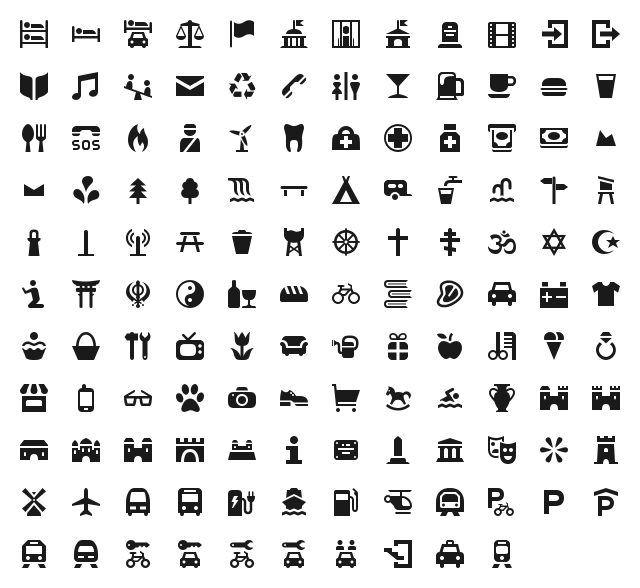
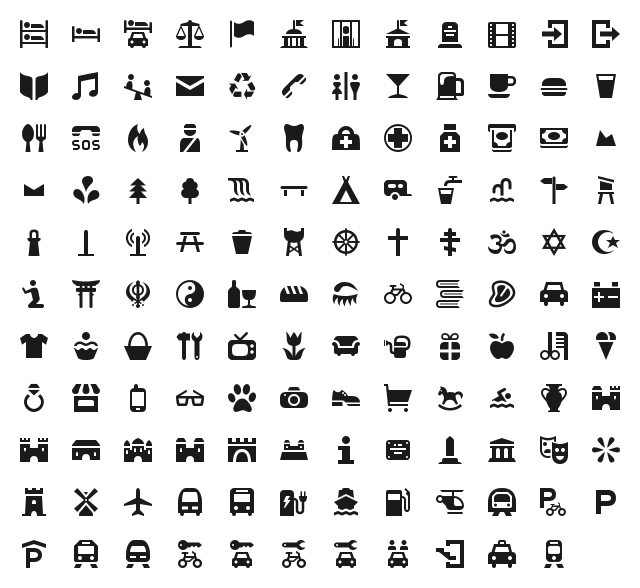
added beauty shop (idea by kocio-pl)

diff --git a/font/osmic-preview.html b/font/osmic-preview.html
@@ -167,6 +167,7 @@
 .oc-bakery:before,
 .oc-bank:before,
 .oc-bar:before,
+.oc-beauty:before,
 .oc-bench:before,
 .oc-bicycle:before,
 .oc-biergarten:before,
@@ -311,6 +312,7 @@
 .oc-bakery:before { content: "\f104"; }
 .oc-bank:before { content: "\f105"; }
 .oc-bar:before { content: "\f106"; }
+.oc-beauty:before { content: "\f183"; }
 .oc-bench:before { content: "\f107"; }
 .oc-bicycle:before { content: "\f108"; }
 .oc-biergarten:before { content: "\f109"; }
@@ -449,7 +451,7 @@
   <body class="characters-off">
     <div id="page" class="container">
       <header>
-        <h1>osmic contains 130 glyphs:</h1>
+        <h1>osmic contains 131 glyphs:</h1>
         <a onclick="toggleCharacters(); return false;" href="#">Toggle Preview Characters</a>
       </header>
 
@@ -542,6 +544,19 @@
         <div class="usage">
           <input class="class" type="text" readonly="readonly" onClick="this.select();" value=".oc-bar" />
           <input class="point" type="text" readonly="readonly" onClick="this.select();" value="&amp;#xf106;" />
+        </div>
+      </div>
+      
+      <div class="glyph">
+        <div class="preview-glyphs">
+          <span class="step size-12"><span class="letters">Pp</span><i id="oc-beauty" class="oc-beauty"></i></span><span class="step size-14"><span class="letters">Pp</span><i id="oc-beauty" class="oc-beauty"></i></span><span class="step size-16"><span class="letters">Pp</span><i id="oc-beauty" class="oc-beauty"></i></span><span class="step size-18"><span class="letters">Pp</span><i id="oc-beauty" class="oc-beauty"></i></span><span class="step size-21"><span class="letters">Pp</span><i id="oc-beauty" class="oc-beauty"></i></span><span class="step size-24"><span class="letters">Pp</span><i id="oc-beauty" class="oc-beauty"></i></span><span class="step size-36"><span class="letters">Pp</span><i id="oc-beauty" class="oc-beauty"></i></span><span class="step size-48"><span class="letters">Pp</span><i id="oc-beauty" class="oc-beauty"></i></span><span class="step size-60"><span class="letters">Pp</span><i id="oc-beauty" class="oc-beauty"></i></span><span class="step size-72"><span class="letters">Pp</span><i id="oc-beauty" class="oc-beauty"></i></span>
+        </div>
+        <div class="preview-scale">
+          <span class="step">12</span><span class="step">14</span><span class="step">16</span><span class="step">18</span><span class="step">21</span><span class="step">24</span><span class="step">36</span><span class="step">48</span><span class="step">60</span><span class="step">72</span>
+        </div>
+        <div class="usage">
+          <input class="class" type="text" readonly="readonly" onClick="this.select();" value=".oc-beauty" />
+          <input class="point" type="text" readonly="readonly" onClick="this.select();" value="&amp;#xf183;" />
         </div>
       </div>
       

diff --git a/font/osmic.css b/font/osmic.css
@@ -30,6 +30,7 @@
 .oc-bakery:before,
 .oc-bank:before,
 .oc-bar:before,
+.oc-beauty:before,
 .oc-bench:before,
 .oc-bicycle:before,
 .oc-biergarten:before,
@@ -174,6 +175,7 @@
 .oc-bakery:before { content: "\f104"; }
 .oc-bank:before { content: "\f105"; }
 .oc-bar:before { content: "\f106"; }
+.oc-beauty:before { content: "\f183"; }
 .oc-bench:before { content: "\f107"; }
 .oc-bicycle:before { content: "\f108"; }
 .oc-biergarten:before { content: "\f109"; }
